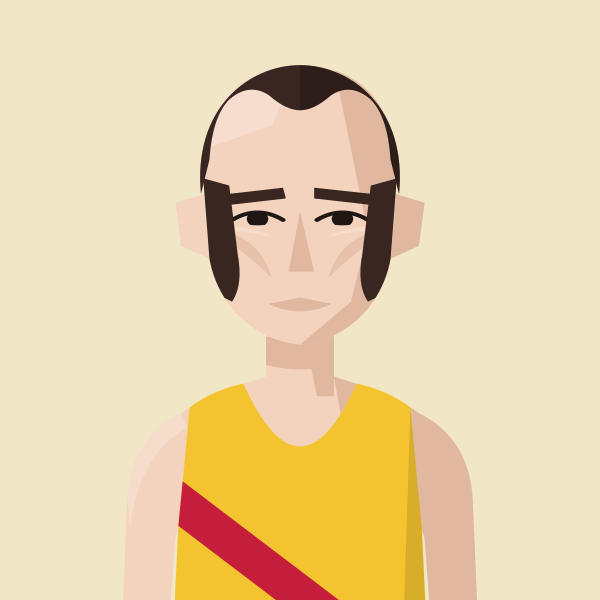
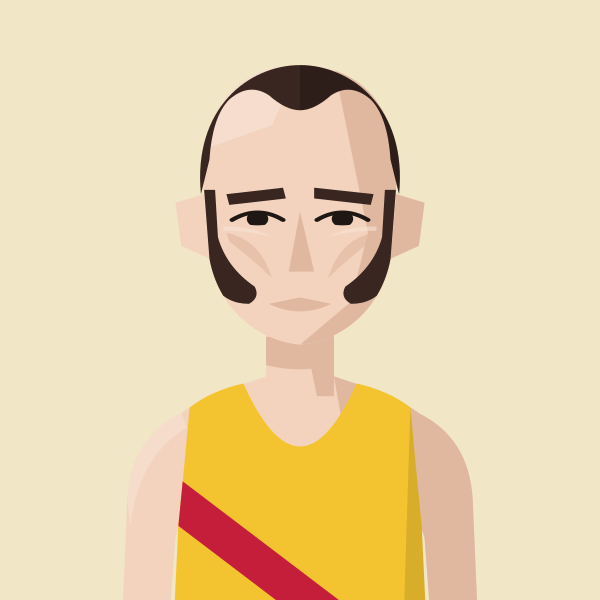
Redraw the Holt brothers' mutton chops
Claude-Session: https://claude.ai/code/session_01MgmDWhFqnSSnP4iBLKXUZC

Changed region(s): [[0.33, 0.3, 0.45, 0.51], [0.6, 0.3, 0.66, 0.45], [0.57, 0.45, 0.63, 0.51]]

diff --git a/tools/gen_portraits.py b/tools/gen_portraits.py
@@ -113,7 +113,7 @@ HAIR["wavytie"] = '<path d="M64,104 C60,57 80,37 100,37 C122,37 140,57 136,104 L
 HAIR_BACK["wavytie"] = '<path d="M120,62 C138,62 150,74 150,88 Q158,100 150,112 Q158,126 149,138 Q154,152 143,162 Q144,174 132,182 Q129,184 129,180 Q136,168 134,154 Q138,140 134,126 Q137,112 132,100 Q130,84 120,72 Z"/>'
 FACIAL = {
     "mostubble": '<path d="M66,112 L74,124 L84,146 L116,146 L126,124 L134,112 L134,180 L66,180 Z" opacity=".32"/><path d="M84,141 L100,137 L116,141 L117,150 L112,147 L100,144 L88,147 L83,150 Z"/>',
-    "muttonchops": '<path d="M64,92 L75,96 L78,128 Q80,142 76,150 L70,146 Q66,132 64,118 Z"/><path d="M136,92 L125,96 L122,128 Q120,142 124,150 L130,146 Q134,132 136,118 Z"/>',
+    "muttonchops": '<path d="M65,98 L70,98 L71,120 Q74,134 84,143 Q86,148 82,151 Q74,151 70,143 Q66,132 65,118 Z"/><path d="M135,98 L130,98 L129,120 Q126,134 116,143 Q114,148 118,151 Q126,151 130,143 Q134,132 135,118 Z"/>',
     "goatee": '<path d="M86,141 L100,138 L114,141 L113,146 L100,143.5 L87,146 Z"/><path d="M93,157 Q100,155 107,157 L105,169 Q100,171 95,169 Z"/>',
     "moustache": '<path d="M86,141 L100,138 L114,141 L113,146 L100,143.5 L87,146 Z"/>',
     "beard": '<path d="M66,112 L74,124 L84,146 L116,146 L126,124 L134,112 L134,180 L66,180 Z"/>',
